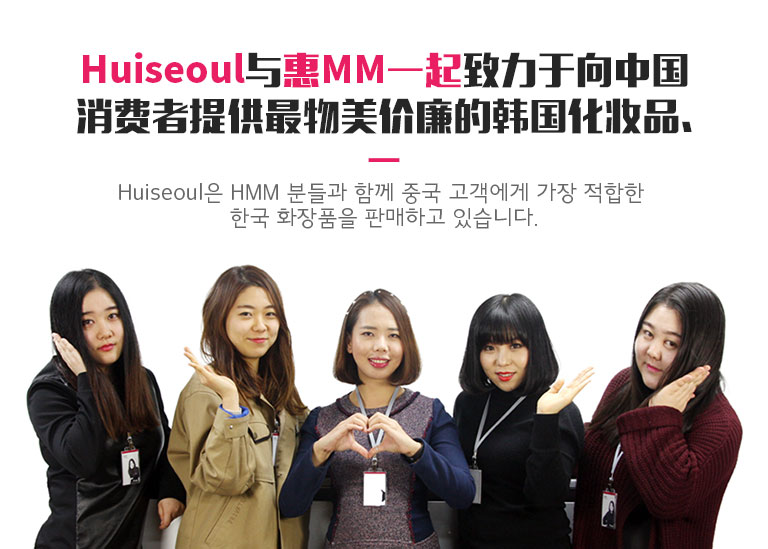
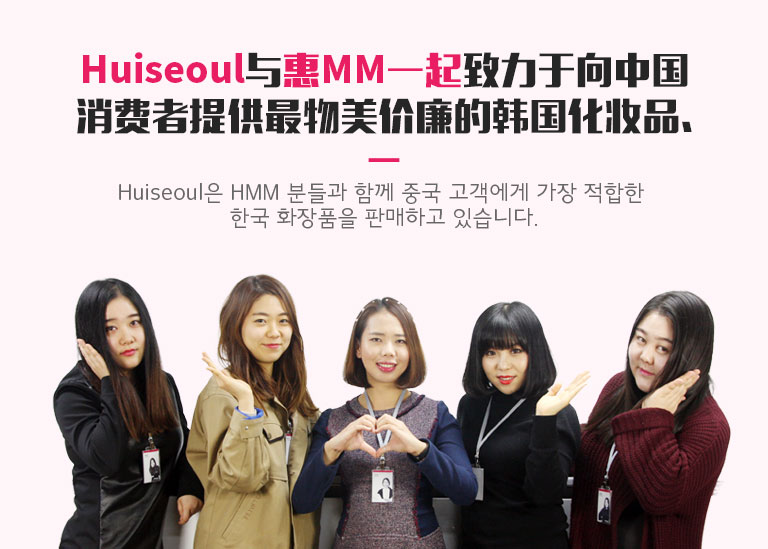
slide 이미지 및 more 이미지 변경 및 slide 배경 색상 변경

Changed region(s): [[0.0312, 0.4645, 0.9688, 1.0], [0.8125, 0.929, 0.875, 1.0]]

diff --git a/app/styles/huiseoul.scss b/app/styles/huiseoul.scss
@@ -35,6 +35,10 @@ a {
   }
 }
 
+#carousel-huiseoul {
+  background-color: #fff6f9;
+}
+
 .carousel-control:hover, .carousel-control:focus {
   color: #e91e63;
 }
